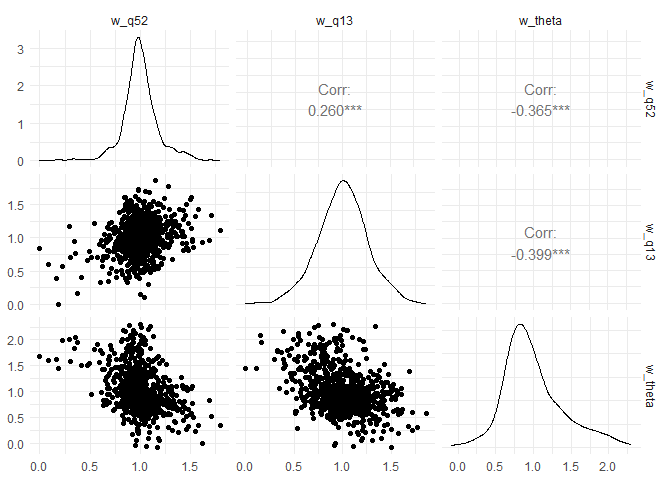
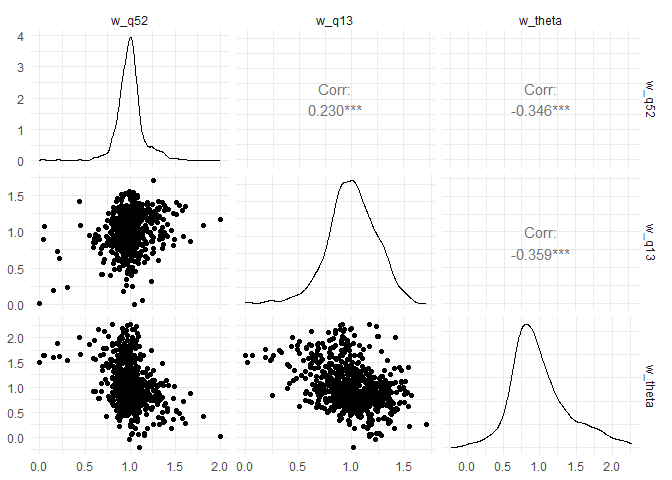
updated README

diff --git a/README.md b/README.md
@@ -55,15 +55,21 @@ feature_select(hp_survey_oo) %>% dim()
 #> [1] 804  32
 ```
 
-Run GBM
+### Run GBM
+
+The function `hpcalibrater::get_boosted_tree_model` generated a boosted
+tree object using XGBoost. SHAP scores are extracted from this object
+using `hpcalibrater::get_shap_scores`.
 
 ``` r
 bst <- get_boosted_tree_model(transform_to_utils(feature_select(hp_survey_oo,recode_bills=T,n_bill=5),epsilon=0.7))
 shap_scores_long <- get_shap_scores(transform_to_utils(feature_select(hp_survey_oo,recode_bills=T,n_bill=5),epsilon=0.7),bst)
 ```
 
-Extract partial utilities from shap_scores_long based on financial
-feature (heating bills), social feature ()
+### Micro-calibrated ABM
+
+Partial utilities from `shap_scores_long` based on financial feature
+(heating bills, **q13**), social feature (**q52**)
 
 ``` r
 get_empirical_partial_utilities(shap_scores_long)
@@ -73,17 +79,17 @@ get_empirical_partial_utilities(shap_scores_long)
 #> # Groups:   question_code [3]
 #>    question_code response_code du_average
 #>    <chr>                 <dbl>      <dbl>
-#>  1 q13                       1    0.00352
-#>  2 q13                       2    0.00329
-#>  3 q13                       3    0.00281
-#>  4 q13                       4    0.00328
-#>  5 q13                       5    0.00617
-#>  6 q13                       6    0.00638
-#>  7 q52                       1    0.00550
-#>  8 q52                       2    0.00351
-#>  9 q52                       3    0.0123 
-#> 10 q52                       4    0.0138 
-#> 11 theta                    NA   -0.0913
+#>  1 q13                       1    0.00364
+#>  2 q13                       2    0.00394
+#>  3 q13                       3    0.00345
+#>  4 q13                       4    0.00414
+#>  5 q13                       5    0.00676
+#>  6 q13                       6    0.00702
+#>  7 q52                       1    0.00669
+#>  8 q52                       2    0.00452
+#>  9 q52                       3    0.0131 
+#> 10 q52                       4    0.0158 
+#> 11 theta                    NA   -0.0933
 ```
 
 ``` r
@@ -92,11 +98,12 @@ weights <- get_model_weights(shap_scores_long,regularisation=1)
 #> Joining with `by = join_by(question_code, response_code)`
 ```
 
-Pairs plot
+### Pairs plot
 
 ``` r
 library(GGally)
 weights[,-1] %>% ggpairs() + theme_minimal()
 ```
 
-<img src="man/figures/README-pairs-1.png" width="100%" />
+<img src="man/figures/README-pairs-1.png" width="100%" /> Note that
+there is a significant skew in the barrier weights ($`\theta`$)
